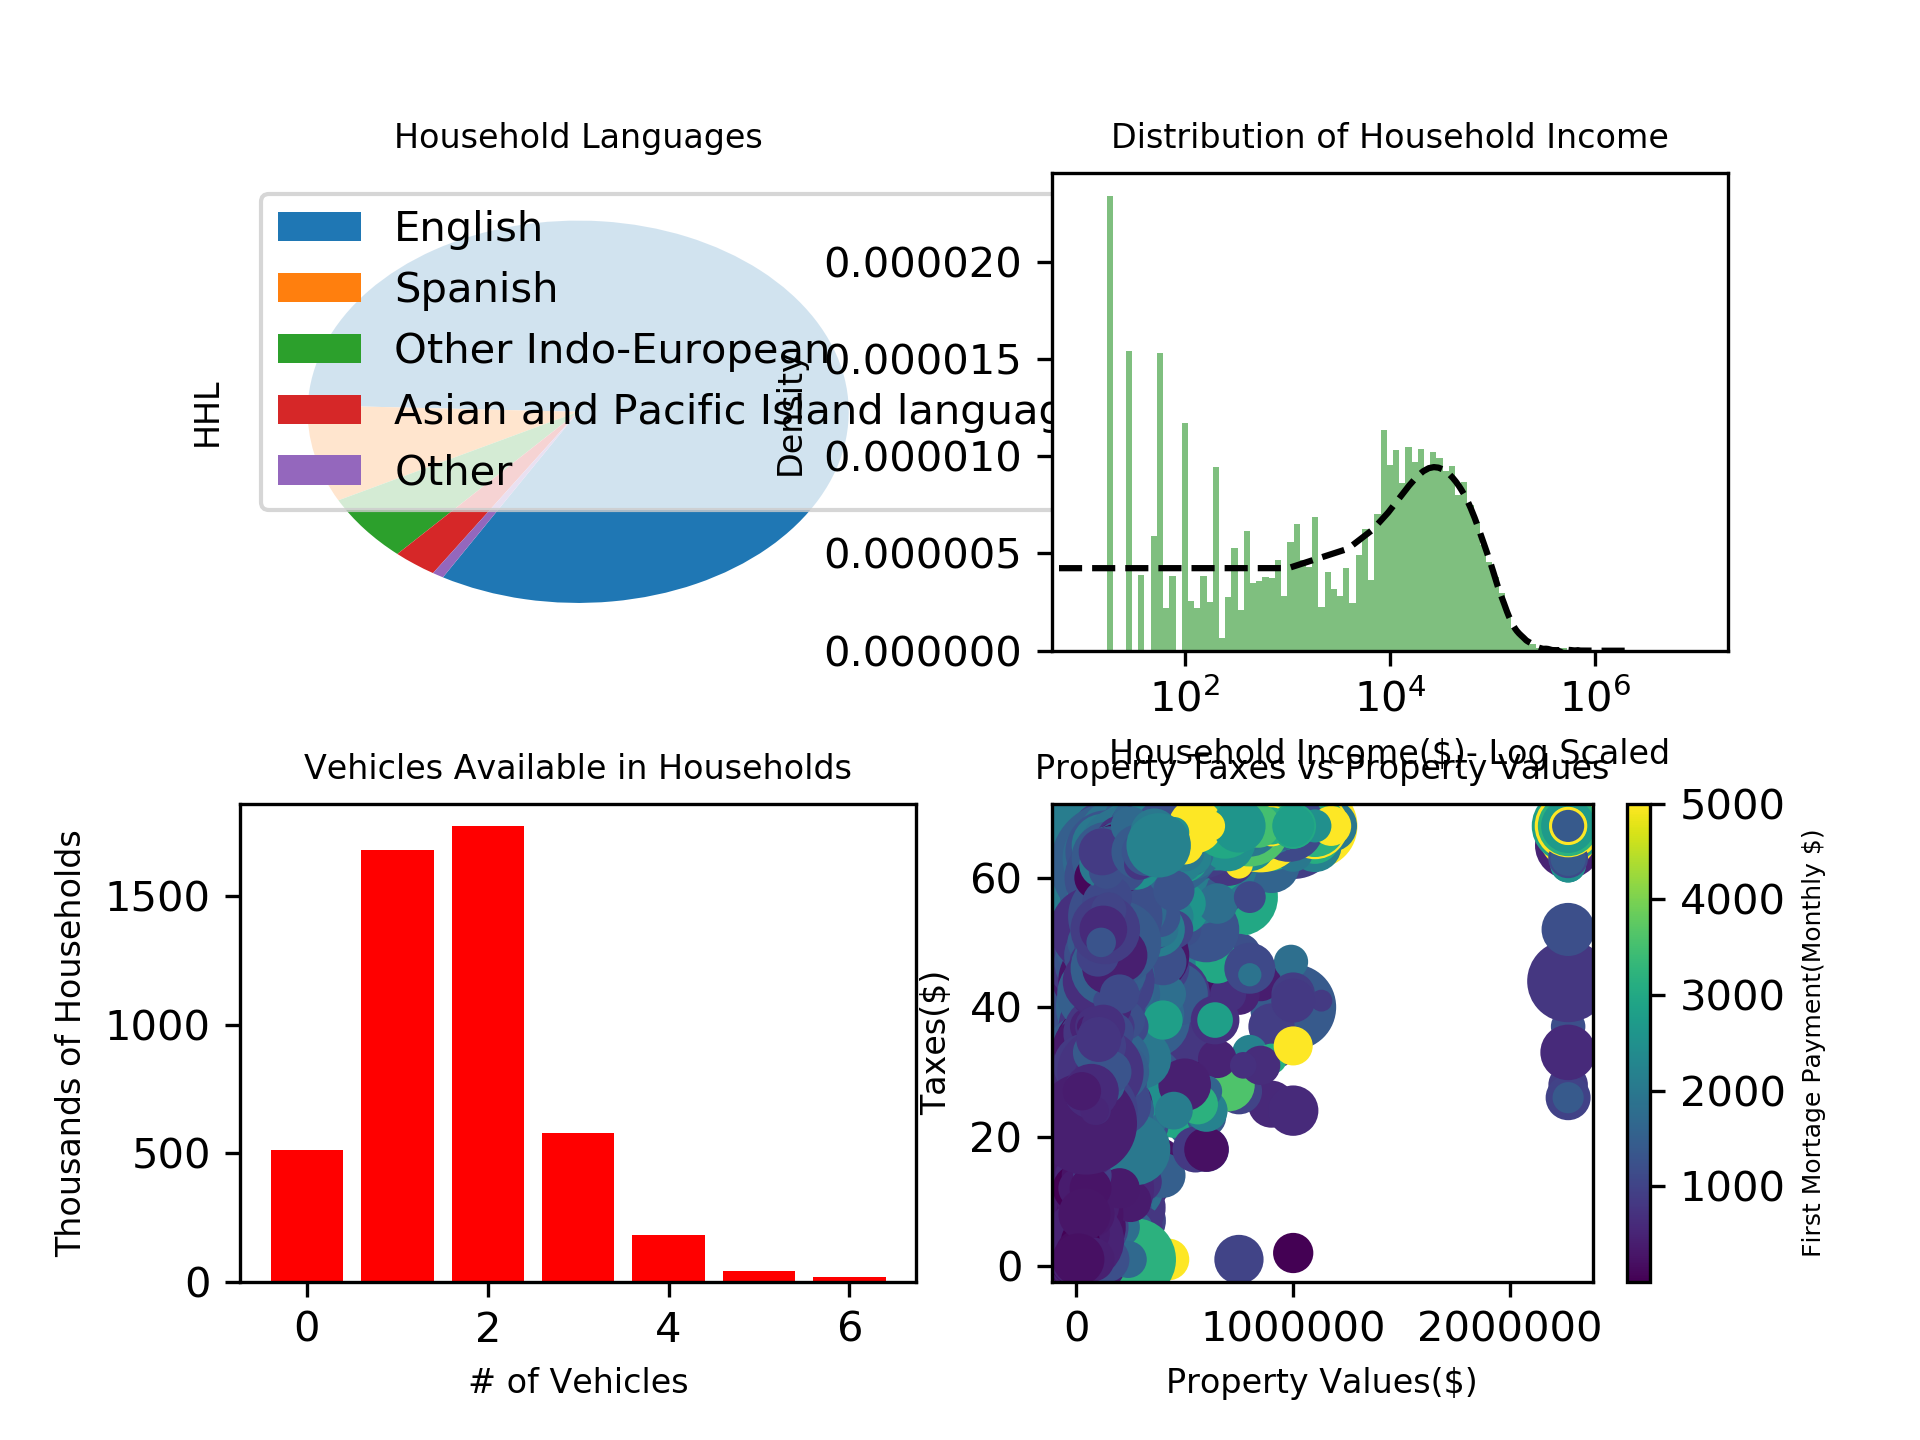
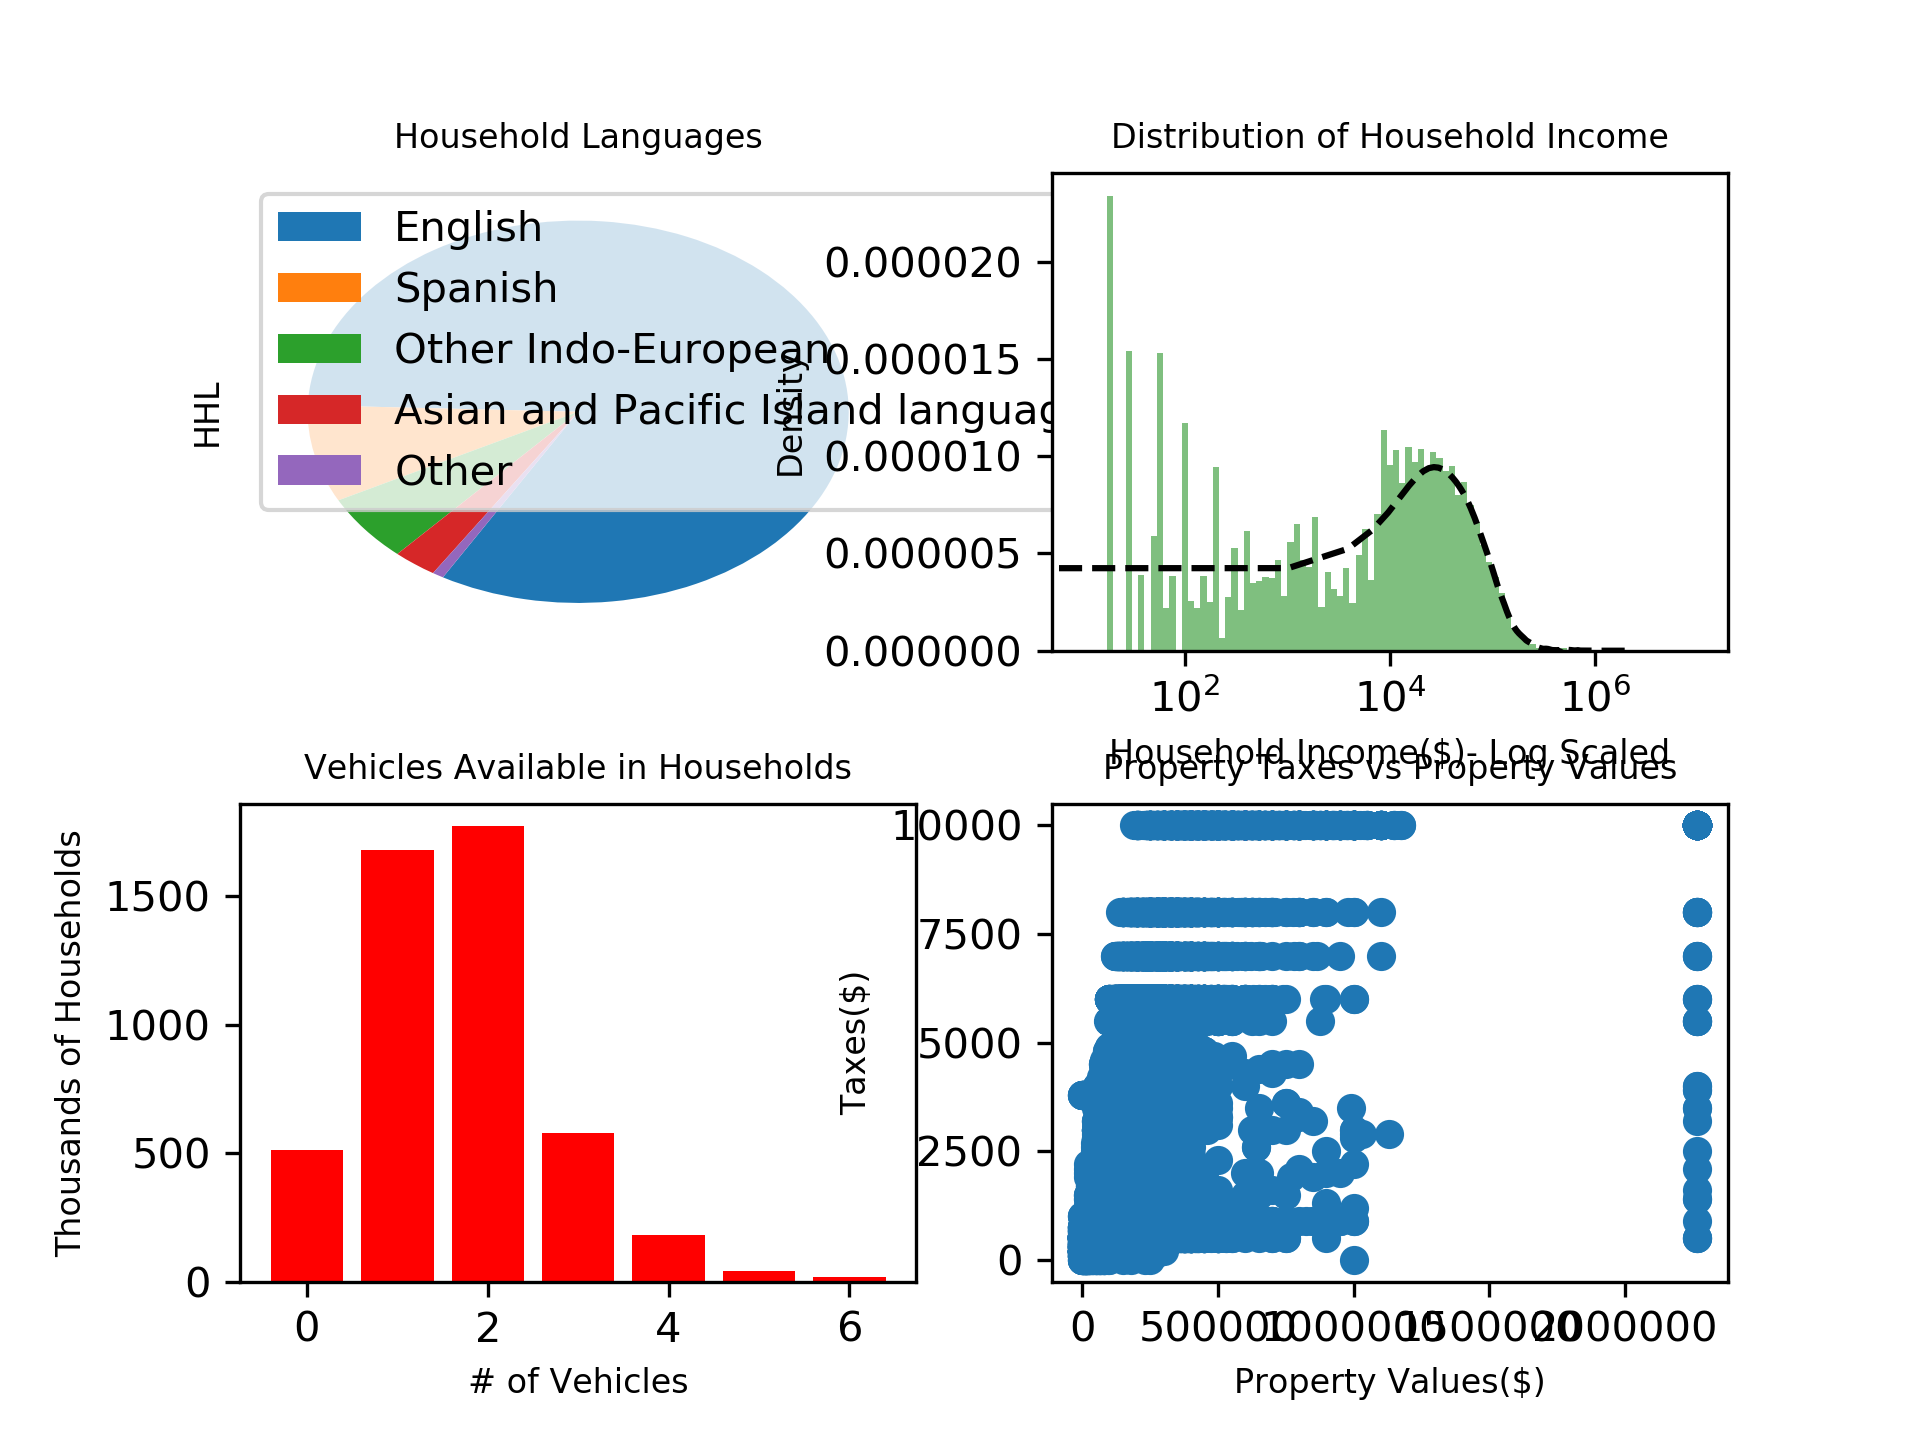
converted TAXP

Changed region(s): [[0.4375, 0.5312, 0.9688, 0.9688]]

diff --git a/Assignment/vispums.py b/Assignment/vispums.py
@@ -71,13 +71,18 @@ axs[1,1].set_ylabel('Taxes($)', fontsize=8)
 # Get data
 pums_scatter = pums_dataframe[['TAXP','VALP','WGTP','MRGP']].dropna()
 # TODO Convert TAXP using interval
-
+taxp_conversions = pd.Series([None, 1,50,100,150,200,250,300,350,400,450,500,550,600,650,700,750,800,850,900,950,1000,
+1100,1200,1300,1400,1500,1600,1700,1800,1900,2000,2100,2200,2300,2400,2500,2600,2700,2800,2900,3000,3100,3200,3300,
+3400,3500,3600,3700,3800,3900,4000,4100,4200,4300,4400,4500,4600,4700,4800,4900,500,5500,6000,7000,8000,900,10000 ])
+for y in range(1,69):
+    pums_scatter = pums_scatter.replace(to_replace= y, value= taxp_conversions[y-1])           
 # Graph Data
-scatter_data = axs[1,1].scatter(pums_scatter.VALP,pums_scatter.TAXP,marker='o',s=pums_scatter.WGTP, c=pums_scatter.MRGP)
+#scatter_data = axs[1,1].scatter(pums_scatter.VALP,pums_scatter.TAXP,marker='o',s=pums_scatter.WGTP, c=pums_scatter.MRGP)
+scatter_data = axs[1,1].scatter(pums_scatter.VALP,pums_scatter.TAXP)
 # Add color bar and label
-cb = plt.colorbar(scatter_data)
+#cb = plt.colorbar(scatter_data)
 # Set color bar label
-cb.set_label(label='First Mortage Payment(Monthly $)',size=6)
+#cb.set_label(label='First Mortage Payment(Monthly $)',size=6)
 # Save figure to file 'pums.png'
 plt.savefig('pums.png', dpi=300) 
 
